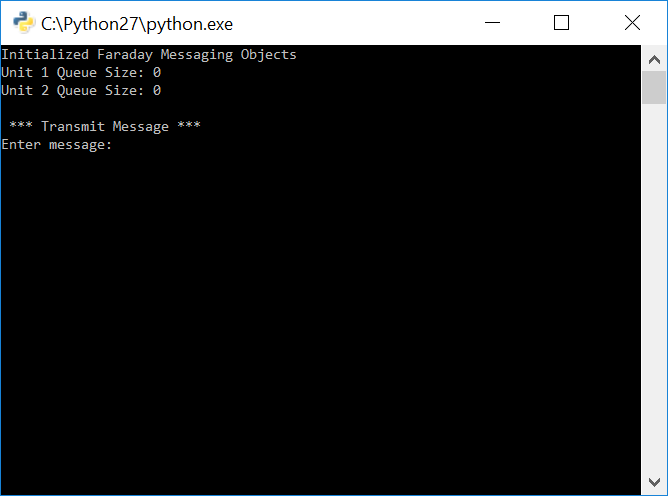
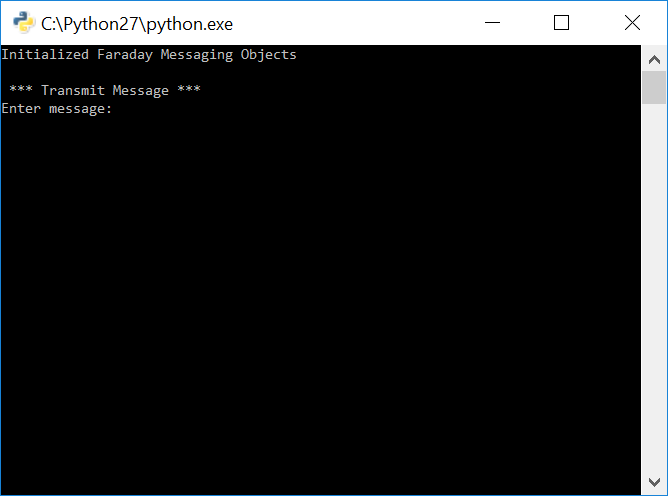
Finished first pass.

Changed region(s): [[0.0, 0.121, 0.2994, 0.3024], [0.2695, 0.1512, 0.2994, 0.1815]]

diff --git a/Tutorials/Python_Developer_Tutorials/foundation/Simple_Text_Messaging_Creating_Objects/message_application_example.py b/Tutorials/Python_Developer_Tutorials/foundation/Simple_Text_Messaging_Creating_Objects/message_application_example.py
@@ -1,40 +1,49 @@
+import os
 import time
 import msg_object
+import ConfigParser
 
-#Unit designation constants
-# NOTE: Assumes proxy assignment is equal to the real unit programmed callsigns and IDs
-unit_1_callsign = 'kb1lqd'
-unit_1_callsign_id = 1
-unit_2_callsign = 'kb1lqd'
-unit_2_callsign_id = 2
+#Open configuration INI
+config = ConfigParser.RawConfigParser()
+filename = os.path.abspath("configuration.ini")
+config.read(filename)
+
+#Definitions
+
+#Variables
+transmitter_device_callsign = config.get("DEVICES", "UNIT0CALL") # Should match the connected Faraday unit as assigned in Proxy configuration
+transmitter_device_node_id = config.getint("DEVICES", "UNIT0ID") # Should match the connected Faraday unit as assigned in Proxy configuration
+transmitter_device_callsign = str(transmitter_device_callsign).upper()
+receiver_device_callsign = config.get("DEVICES", "UNIT1CALL") # Should match the programmed callsign of the remote Faraday device to be commanded (receive)
+receiver_device_node_id = config.getint("DEVICES", "UNIT1ID") # Should match the programmed callsign of the remote Faraday device to be commanded (receive)
+receiver_device_callsign = str(receiver_device_callsign).upper()
 
 # Create messaging unit objects with the two device connected to local proxy
-unit_1 = msg_object.MessageObject(unit_1_callsign, unit_1_callsign_id)
-unit_2 = msg_object.MessageObject(unit_2_callsign, unit_2_callsign_id)
+transmitter = msg_object.MessageObject(transmitter_device_callsign, transmitter_device_node_id)
+receiver = msg_object.MessageObject(receiver_device_callsign, receiver_device_node_id)
 
-print "Initialized Faraday Messaging Objects"
 
-# Check Queue receive sizes (should contain no messages)
-print "Unit 1 Queue Size:", unit_1.receive.getqueuesize()
-print "Unit 2 Queue Size:", unit_2.receive.getqueuesize()
+
+# # Check Queue receive sizes (should contain no messages)
 
 while 1:
     print "\n *** Transmit Message ***"
     # Send user input from Unit #1 to Unit #2
     user_input = raw_input("Enter message: ")
-    unit_1.transmit.send(unit_2_callsign, unit_2_callsign_id, str(user_input))
+    transmitter.transmit.send(receiver_device_callsign, receiver_device_node_id, str(user_input))
 
     # sleep to allow buffers to fill
     time.sleep(1)
 
     #Check Queue size of Unit #2 and receive packet (if recieved due to non-ARQ protocol)
     print "\n *** Receiving Message ***"
-    queuesize_unit2 = unit_2.receive.getqueuesize()
+    queuesize_unit2 = receiver.receive.getqueuesize()
     if queuesize_unit2 > 0:
-        while unit_2.receive.getqueuesize() > 0:
+        print "Initialized Faraday Messaging Objects"
+        print "Receive Queue Size:", receiver.receive.getqueuesize()
+        while receiver.receive.getqueuesize() > 0:
             try:
-                print "Unit 2 Queue Size:", unit_2.receive.getqueuesize()
-                received_item = unit_2.receive.getqueueitem()
+                received_item = receiver.receive.getqueueitem()
                 print "From:", received_item['source_callsign']
                 print "Received (Message):", received_item['message']
             except:

diff --git a/Tutorials/Python_Developer_Tutorials/foundation/Simple_Text_Messaging_Creating_Objects/Readme.md b/Tutorials/Python_Developer_Tutorials/foundation/Simple_Text_Messaging_Creating_Objects/Readme.md
@@ -1,34 +1,72 @@
 
 # Tutorial - Simple Text Messaging Class Object
 
-The previous tutorial created a simple messaging application that utilized the Faraday  proxy interface and directly coupled a simple user interface. Proper applications should implement a more modular approach by separating the user interface from core application, ideally using a RESTful interface (FLASK). This tutorial presents an example program that utilizes a transmit/receive threaded class object providing a python interface and buffer, a useful step towards a fully FLASK interface!
+The previous tutorial created a simple messaging application that utilized the Faraday  proxy interface and directly implemented a user interface. Proper application modularity should separate the user interface from core application, ideally using a RESTful interface. 
 
+This tutorial reconfigured the prior "Simple Messaging Application" transmit and receive classes into multi-threaded class objects. The example program `message_application_example.py` utilizes the functionality of `faraday_msg.py` in threaded class objects contained in `msg_object.py`. Queues are established (FIFO's) that allow buffering of transmit and receive messages if multiple are received prior to polling the receiver for new messages. The example program can therefor operate both transmit and receive in a single script independently.
 
+This allows for modular interfacing to the classes where a future tutorial can implement a RESTful API.
+
+### Prerequisites
+* Properly configured and connected proxy
+  * x2 Faraday connected to local computer
+ 
+> Note: Keep the units seperated a few feet apart and ensure the RF power settings are below ~20 to avoid desensing the CC430 front end receiver!
+
+> Note: Until proxy auto-configuration functionality is added it is possible that proxy's assigned callsign is different than the units actual configuration callsign. Please keep these matching unless you know what you're doing.
+
+An example proxy.ini with two units connected is shown below.
+
+```Python
+[FLASK]
+HOST=127.0.0.1
+PORT=8000
+
+[PROXY]
+UNITS=2
+
+[UNIT0]
+CALLSIGN = KB1LQD
+NODEID = 1
+COM = COM106
+BAUDRATE = 115200
+TIMEOUT = 5
+
+[UNIT1]
+CALLSIGN = KB1LQD
+NODEID = 2
+COM = COM112
+BAUDRATE = 115200
+TIMEOUT = 5
+```
 
 
 #Running The Tutorial Example Script
 
-## Start The Proxy Interface
+## Configuration
 
-Following the [Configuring Proxy](../../0-Welcome_To_Faraday/Configuring_Proxy/) tutorial configure, start, and ensure a successful connection to **BOTH** locally (USB) connected Faraday digital radios.
+* Open `configuration-template.ini` with a text editor
+* Transmitter
+  * Update `CALLSIGN` Replace ```REPLACEME``` to match the callsign of the Faraday unit **as assigned** in proxy
+  * Update `NODEID` to match the callsign node ID of the Faraday unit **as assigned** in proxy
+* Receiver
+  * Update `CALLSIGN` Replace ```REPLACEME``` to match the callsign of the remote Faraday unit as configured in the devices FLASH memory configuration
+  * Update `NODEID` to match the callsign of the remote Faraday unit as configured in the devices FLASH memory configuration
+* Save the file as `configuration.ini`
 
-
-
-## Edit `message_application_example.py` Callsigns and IDs
-
-Edit the example applications callsign and ID numbers with those of your Faraday devices and proxy application assignments.
-
-> NOTE: This application assumes that the proxy assigned callsigns match those of the units. This is usually the case and hopefully in the future dynamic allocation will resolve this potential discrepensy.
-
-The code block below shows the two Faraday devices `KB1LQD-1` and `KB1LQD-2` assigned. The variables are not case sensitive.
+> NOTE: Ideally the proxy assigned callsign/ID matches the unit device configuration but this is not controlled or required and care should be taken.
 
 ```python
-#Unit designation constants
-# NOTE: Assumes proxy assignent is equal to the real unit programmed callsigns and IDs
-unit_1_callsign = 'kb1lqd'
-unit_1_callsign_id = 1
-unit_2_callsign = 'kb1lqd'
-unit_2_callsign_id = 2
+[DEVICES]
+UNITS=2
+
+; Transmitter - This should match the connected Faraday unit as assigned in Proxy configuration
+UNIT0CALL=REPLACEME
+UNIT0ID= REPLACEME
+
+; Receiver - This should match the programmed callsign of the remote Faraday device to be commanded (receive)
+UNIT1CALL=REPLACEME
+UNIT1ID= REPLACEME
 ```
 
 ## Run `message_application_example.py`
@@ -47,7 +85,6 @@ Congratulations! We've taken a mighty step to creating a powerful transmit/recie
 
 Ideas for the reader to experiment with the example program.
 
-* Swap `Unit 1` and `Unit 2` transmit and receive operation in the example program
 * Modify the example code to example sending more than one message prior to receiving. This will build up messages in the queue.
 * Write an automated response message to transmit back after reception.
 * Break the `message_application_example.py` application into two programs each dedicated to a specific device. Enable transmit/receive between two units generically.
@@ -91,9 +128,9 @@ class TransmitObject(object):
 
 ### Receiver Object
 
-The reciever object must run in the background constantly looking for new data (packet fragments) received in the proxy interface buffers and perform reassembly if available. When a full message has been reconstructed it is placed into a FIFO (Queue) for retrieval.
+The reciever object must run in the background constantly looking for new data (packet fragments) received in the proxy interface buffers and perform reassembly as needed. When a full message has been reconstructed it is placed into a FIFO (Queue) for retrieval.
 
-The [Python threading module](https://pymotw.com/2/threading/) was used to run the objects `run()` function indefinietely as a seperate process. The module also allows for querying for the number of received messages waiting in the FIFO as well as a function to return the next item from it.
+The [Python threading module](https://pymotw.com/2/threading/) was used to run the objects `run()` function indefinietely as a seperate process.
 
 ```python
 class ReceiveObject(threading.Thread):
